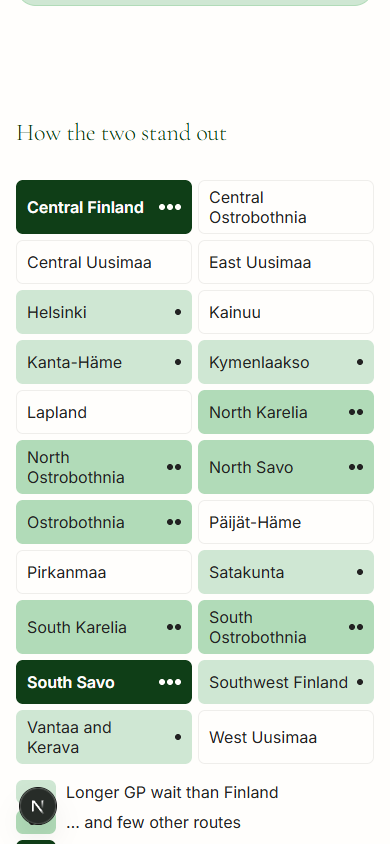
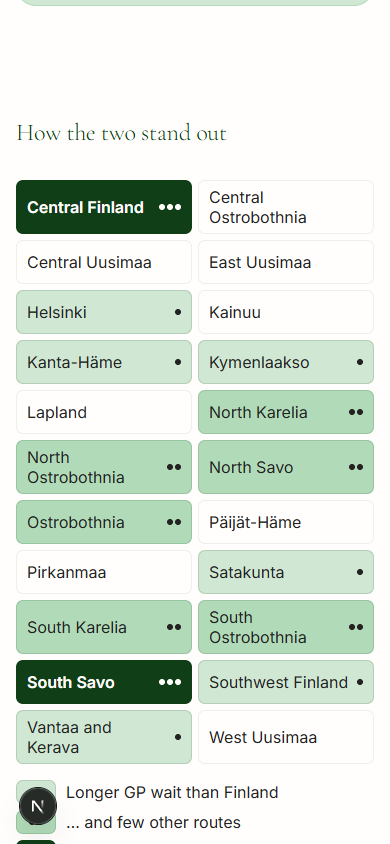
fix(insights): Goal 3 count from the data, pathway wording, tiles legible in print; notes

diff --git a/app/insights/page.tsx b/app/insights/page.tsx
@@ -115,6 +115,8 @@ export default function InsightsPage({ searchParams }: PageProps<"/insights">) {
   const first = warning?.series[0];
   const last = warning?.series[warning.series.length - 1];
   const fieldCount = starterDataset.sections.reduce((n, s) => n + s.fields.length, 0);
+  // The counts behind Goal 3's own measure: the section tied to roadmap measure 3.1.2.
+  const goal3Count = starterDataset.sections.find((s) => s.measure_id === "3.1.2")?.fields.length ?? 0;
   const steps = getPathwayRow(DEFAULT_AREA)?.steps ?? [];
   const notPublished = steps.filter((s) => !s.published).length;
 
@@ -259,7 +261,7 @@ export default function InsightsPage({ searchParams }: PageProps<"/insights">) {
       <Chunk
         id="starter-dataset"
         eyebrow="What to record from Monday"
-        statement={`${capital(word(notPublished))} of ${word(steps.length)} steps to cancer treatment are not published by area.`}
+        statement={`${capital(word(notPublished))} of ${word(steps.length)} steps of the cancer pathway are not published by area.`}
         figure={<PathwayStepsRow />}
         meaning={
           <>
@@ -285,7 +287,7 @@ export default function InsightsPage({ searchParams }: PageProps<"/insights">) {
           </Disclosure>
           <div className="flex max-w-[68ch] flex-col items-start gap-3 rounded-[14px] bg-keylime-wash p-6">
             <p className="text-base font-semibold text-pretty text-forest-ink">
-              Two of the counts measure Goal 3 of the national cancer strategy directly.
+              {capital(word(goal3Count))} of the counts measure Goal 3 of the national cancer strategy directly.
             </p>
             <Disclosure show="Show the Goal 3 link" hide="Hide the Goal 3 link" tone="quiet">
               <Goal3Detail />

diff --git a/components/insights/no-way-round-tiles.tsx b/components/insights/no-way-round-tiles.tsx
@@ -9,8 +9,8 @@ export type TileLevel = 0 | 1 | 2 | 3;
 
 const FILL: Record<TileLevel, string> = {
   0: "border-border-mist bg-cream-paper text-charcoal",
-  1: "border-transparent bg-mint-veil text-charcoal",
-  2: "border-transparent bg-sage-mist text-charcoal",
+  1: "border-border bg-mint-veil text-charcoal",
+  2: "border-border bg-sage-mist text-charcoal",
   3: "border-transparent bg-forest-ink text-cream-paper font-semibold",
 };
 

diff --git a/docs/audit/insights/page-rework/notes.md b/docs/audit/insights/page-rework/notes.md
@@ -7,7 +7,7 @@ Branch `t3/rework-insights-scroll-story`, on top of `t3/experimental-real-user-a
 | | Words |
 |---|---|
 | Before | **2,851** |
-| After | **231** as the script counts it. Of these, 36 are the 22 area names in the picture and 16 are the step names and "Not published" in the pathway row, so the prose is about **179**. The picture's 13-word legend is `aria-hidden` (each box carries its own screen-reader text), so the script does not count it. |
+| After | **245**: 232 as the script counts it, plus the picture's 13-word legend, which the script skips because it is `aria-hidden` (each box carries its own screen-reader text) but which is visible. Of the 245, 36 are the 22 area names in the picture and 16 are the step names and "Not published" in the pathway row. **Counting those picture labels, the page is over the 200 budget; without them, the prose is about 193.** |
 
 The script, kept in the session's scratchpad, removes source chips, pills and badges, button and `summary` labels, tables, form controls, closed `<details>` content and screen-reader-only text. It still counts a `CaveatNote`'s always-visible short text and a `ConfidenceBadge`'s visible reason.
 
@@ -18,7 +18,7 @@ Screenshots: `before-*.png` and `after-*.png` show the first two screen heights 
 1. **The finding** (lead `Chunk`, h1). "In two areas the GP queue is long, with no way round it." Then Central Finland 73.5% and South Savo 69.7% counting up, the unit line with Finland's 54.7%, one source chip (Sotkanet 6411 · 2025, the same for both), one grade label ("Read the trend with care", the same for both) and a `CaveatNote`: "area figures, not people; not cancer-specific".
 2. **How the two stand out** (`ScrollStory`). The picture shows the 22 areas as boxes. Four short steps: all 22 → a longer wait than Finland → 8 of them also use the other routes less → only the two hold under all six cut-offs. Each level has its own fill **and** its own number of dots, so the picture does not rely on colour alone. Two buttons sit below: "Show how we tested this" and "Show the full table".
 3. **Early warning** (`Chunk`). "Only South Karelia's GP wait is plainly getting worse." Then 53.3% → 60.3%, with its source chip and grade label. "15 more look worse, but their recorded visits changed or are incomplete." The `CaveatNote` reads "three years only: a direction, not a forecast". Two buttons: "Show all 22 areas" and "Show how we grade each figure".
-4. **What to record from Monday** (`Chunk`, `#starter-dataset`). "Three of seven steps to cancer treatment are not published by area." Then the seven steps in one row, with the three gaps dashed and labelled "Not published", and "18 quarterly counts let a county measure them itself." The `CaveatNote` reads "counts only, no patient data". Below that come the primary button "Download the recording template (Excel)", "Show the 18 fields", one framed Goal 3 line with "Show the Goal 3 link", and "Show one area's figures for each step" (the picker; it opens by itself when an area has been chosen, `/insights?area=<id>#pathway`).
+4. **What to record from Monday** (`Chunk`, `#starter-dataset`). "Three of seven steps of the cancer pathway are not published by area." Then the seven steps in one row, with the three gaps dashed and labelled "Not published", and "18 quarterly counts let a county measure them itself." The `CaveatNote` reads "counts only, no patient data". Below that come the primary button "Download the recording template (Excel)", "Show the 18 fields", one framed Goal 3 line (its count, two, is taken from the template section tied to roadmap measure 3.1.2) with "Show the Goal 3 link", and "Show one area's figures for each step" (the picker; it opens by itself when an area has been chosen, `/insights?area=<id>#pathway`).
 
 All of it sits in one `FocusGroup`.
 
@@ -36,7 +36,7 @@ All of it sits in one `FocusGroup`.
 | Paragraph "On the main view, 8 of 22… 16 of 22 are below Finland on occupational-health visits…" | "8" in story step 3; the 16-of-22 sentence deleted | Method detail. It is still in `docs/audit/insights/notes.md`. |
 | "How it was worked out" paragraph | Deleted | The intro to "Show how we tested this" says the same. |
 | Mint "What these figures do not show" box (4 bullets) | `CaveatNote` with the 4 bullets behind "Why?" | One main caveat, visible; the detail is in place on request. |
-| Two scatter charts and their legend | One picture: 22 boxes narrowing to two | The narrowing is the finding. The scatter's magnitudes are in the full table. Two panels did not fit the sticky slot at 1366×768. |
+| Two scatter charts and their legend | One picture: 22 boxes narrowing to two | The narrowing is the finding. The scatter's magnitudes are in the full table. (We estimated, but did not measure, that two panels would not fit the sticky slot at 1366×768.) |
 | Full table of 22 areas | Behind "Show the full table" | Reference, not story. |
 | Starter dataset h2, eyebrow and statement | Chunk statement and the step row | The "Not published" steps are the reason for the template, so they now sit together. |
 | Slate "No patient data" box (3 bullets) and the "One row per cancer group…" sentence | `CaveatNote` "counts only, no patient data", bullets behind "Why?"; the sentence deleted | The template's Read me sheet says it. |
@@ -45,7 +45,7 @@ All of it sits in one `FocusGroup`.
 | Confidence-grade section (h2, paragraph incl. "18 of 22 areas changed by more than a fifth", rules panel) | One button, "Show how we grade each figure", in the early-warning chunk | Brief: a small button, not a paragraph. `/how-to-read` returns 404 on this branch, so there is nothing to link to yet. |
 | Pathway section: picker, 7-cell strip, 7 detail cards, 4-bullet caveat box | A seven-step row (no area needed: the gaps are the same everywhere) in the template chunk; picker and detail cards behind "Show one area's figures for each step"; the caveat box became a `CaveatNote` "side by side, not cause and effect" | The point is "Not published". The county page has no such row (its `PathwayStrip` is the eight-step stepper without these figures), so linking out was not possible. The strip duplicated the detail cards, so it is gone (`strip={false}`). |
 | Early warning: h2, method paragraph, summary paragraph (GP 16 of 22, bowel 22 of 22), "Getting worse" heading and screening note, the warning cards, the "possible changes" cards, the all-figures table | One chunk for the GP wait: the South Karelia figure, the "15 more" line, the caveat, and "Show all 22 areas" (GP-wait table) | The GP wait is the page's subject. **Dropped from this page:** the referral (5), breast screening (5) and cervical screening (6) "getting worse" flags and the bowel-screening comparability flags. The `EarlyWarning` component is unchanged and can show them elsewhere. |
-| Goal 3 section (h2, 3 paragraphs, 4 chips, keylime panel) | One framed line, "Two of the counts measure Goal 3 of the national cancer strategy directly.", with the detail and its 4 chips behind "Show the Goal 3 link" | Brief. |
+| Goal 3 section (h2, 3 paragraphs, 4 chips, keylime panel) | One framed line, "Two of the counts measure Goal 3 of the national cancer strategy directly." (the "two" is taken from the data, not typed), with the detail and its 4 chips behind "Show the Goal 3 link" | Brief. |
 | Page title "What the data shows, and what to start counting" | "Where access is hardest", matching the nav label | Shorter. |
 
 ## Component changes (all in `components/insights`)
@@ -63,8 +63,19 @@ All of it sits in one `FocusGroup`.
 - **390px:** the picture sits above the text in its final state, and there is no sideways scroll even with every disclosure open (the scroll width was 988 before the fix).
 - **Reduced motion:** the page reads as a static document, with the picture in its final state.
 - **Print** (print media, A4 PDF): all 11 `<details>` are open, the picture is not sticky, and the story is in its final state; 21 pages.
+- **No JavaScript:** every chunk is at full opacity once its CSS fade has played (only the decorative arrow icons stay at 0.6–0.7). The picture shows its final state (2 dark, 6 sage, 6 mint), and the picker and the template link are in the HTML.
+- **390px, motion on:** after a scroll to the bottom every Reveal is at opacity 1, the scroll width stays 390 and the story stays in its final state.
+- **Print without backgrounds** (`print-color-adjust: economy`, as the print dialog defaults to): the mint boxes would lose their fill, so the tinted boxes now carry a hairline edge. Their dots still show the level, and the dark boxes and the dashed "Not published" cells print legibly.
 - **Template:** the button downloads `firstline-cancer-pathway-starter-template.xlsx` (9,444 bytes, valid zip).
 - **Area picker:** choosing Vantaa and Kerava loads `/insights?area=vantaa-kerava#pathway`, with the disclosure open on "The whole pathway in Vantaa and Kerava".
+
+## Decisions the team lead may want to reverse
+
+- The referral and screening "getting worse" flags are no longer on this page.
+- The print button is gone. The shared "Save or share" control will cover printing.
+- Both hero figures share one source chip and one grade label (they are identical).
+- The one-area pathway, with its picker, sits behind a button.
+- The story has four steps; the brief asked for two or three text blocks.
 
 ## Known leftovers
 
